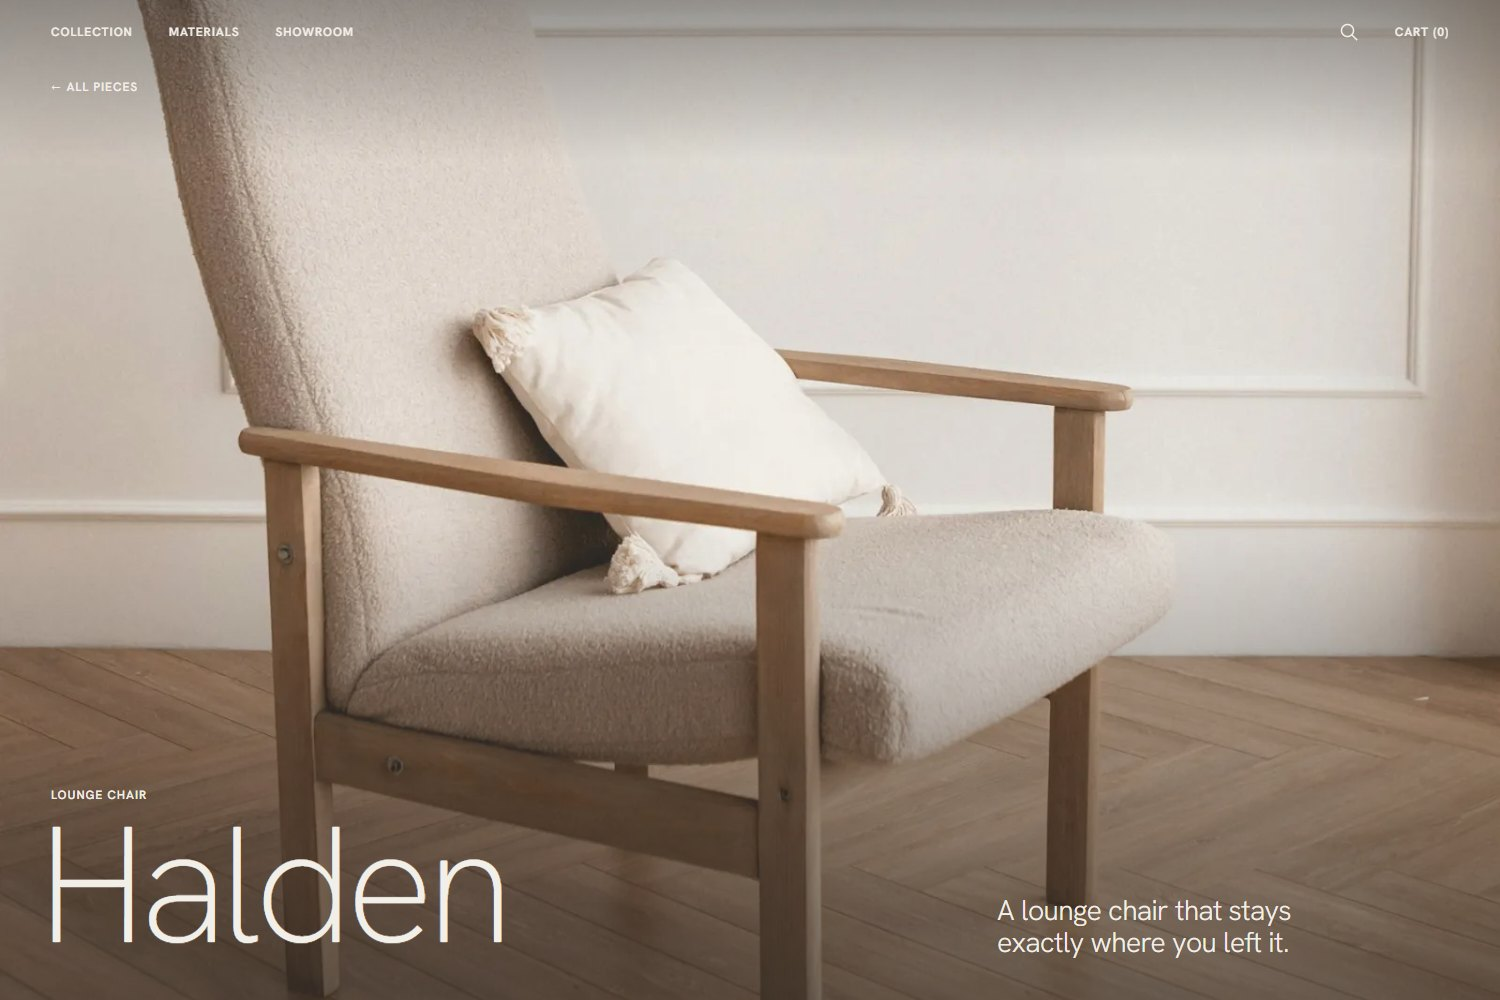
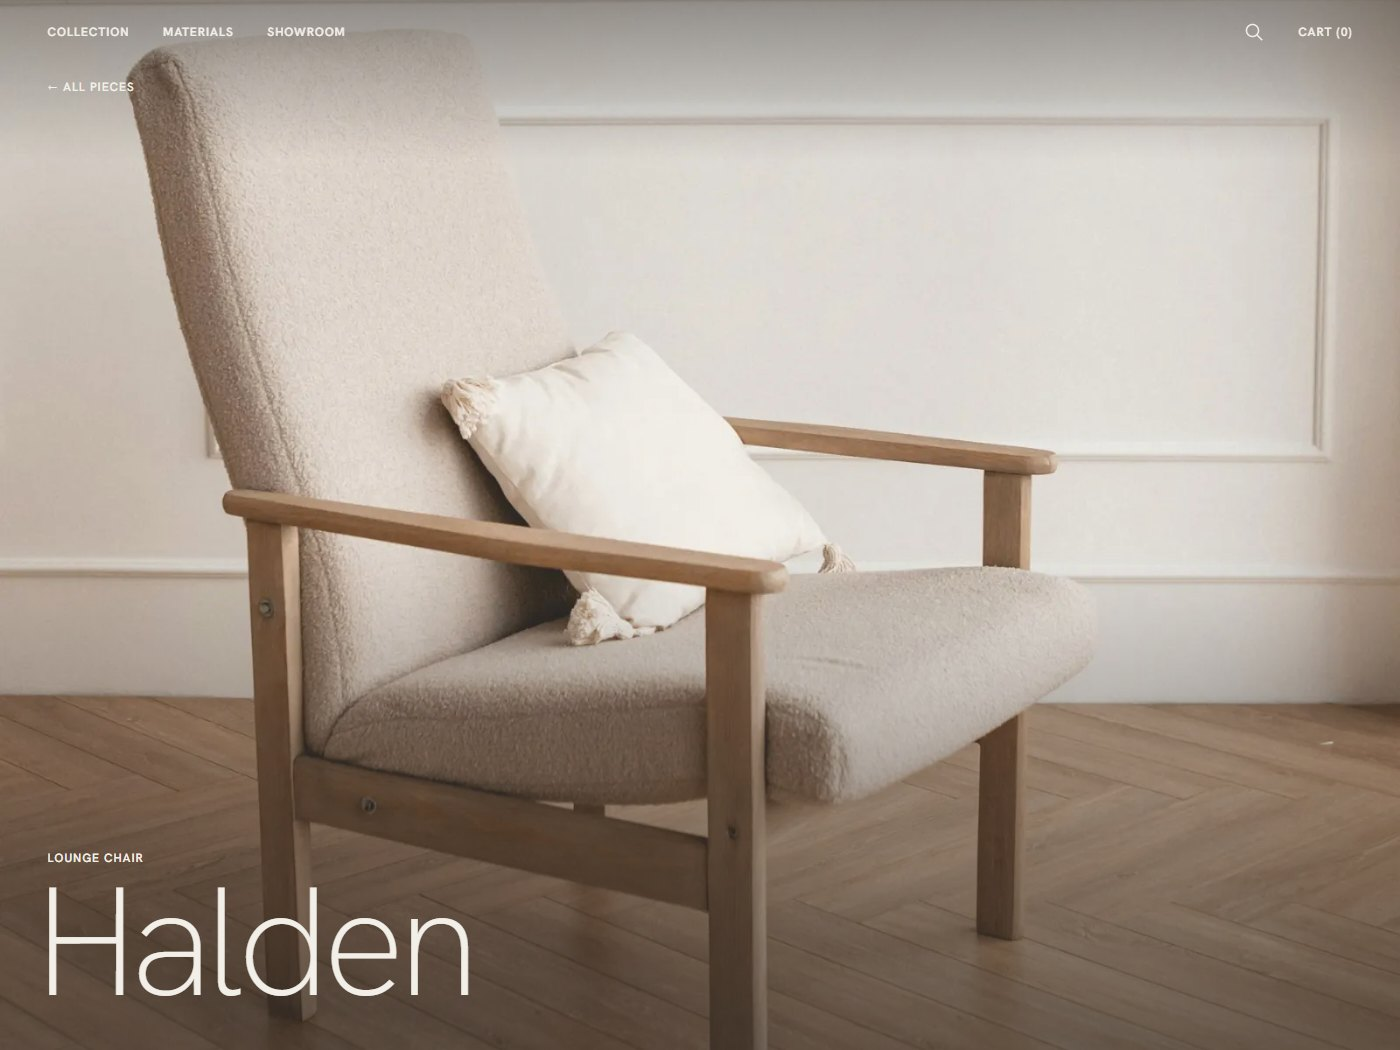
Capture Settle at each frame's actual ratio
The detail page cropped every image. I had assumed the frames were 3:2 and
captured at 1500x1000 to match; measuring the built page showed otherwise:

  homepage / work cards   3:2    settle.jpg fitted, no crop
  detail page plate       16:9   16% cut off the height
  detail page shots       4:3    11% cut off each side

On a photograph that is a crop. On a screenshot it takes the navigation off
the top and the type off the edges, which is most of what the capture was
for.

Recaptured at the ratio of the frame each one lands in:
  settle-hero.jpg  1600x900   16:9, for the plate
  settle-1..4.jpg  1400x1050  4:3, for the shots
  settle.jpg       unchanged  3:2, still correct for the cards

Same picture in two shapes for the hero rather than one compromise, because
there is no single crop that serves a 16:9 plate and a 3:2 card without
losing something. Every ratio now matches its frame exactly, so object-fit
has nothing to crop.

800KB for six captures. Verified both ways: deployed 78 checks 0 failures;
local preview styled, 0 failed requests.

diff --git a/work/settle/index.html b/work/settle/index.html
@@ -238,12 +238,15 @@
       </section>
 
       <!-- Full bleed, no caption. Same component as the other studies;
-           the source is 16:9 against a 16:9 frame, so nothing is cropped. -->
+           the capture is 16:9 and so is the frame, so nothing is cropped. The
+           cards elsewhere use settle.jpg, which is 3:2 to match THEIR frames —
+           same picture, two shapes, because one crop would have cut the
+           navigation off the top. -->
       <section class="plate">
         <div class="card__frame plate__frame">
           <img
             class="card__img"
-            src="../../img/work/settle.jpg"
+            src="../../img/work/settle-hero.jpg"
             alt="The Settle landing page — wordmark, navigation and the hero line over a motion-blurred interior"
             decoding="async"
             fetchpriority="high"
@@ -251,7 +254,7 @@
           <div class="card__placeholder">
             <span class="meta meta--signal">Image needed</span>
             <span class="card__spec"
-              >3:2 at <code>img/work/settle.jpg</code> — 1200×800 minimum.</span
+              >16:9 at <code>img/work/settle-hero.jpg</code> — 1600×900 minimum.</span
             >
           </div>
         </div>
